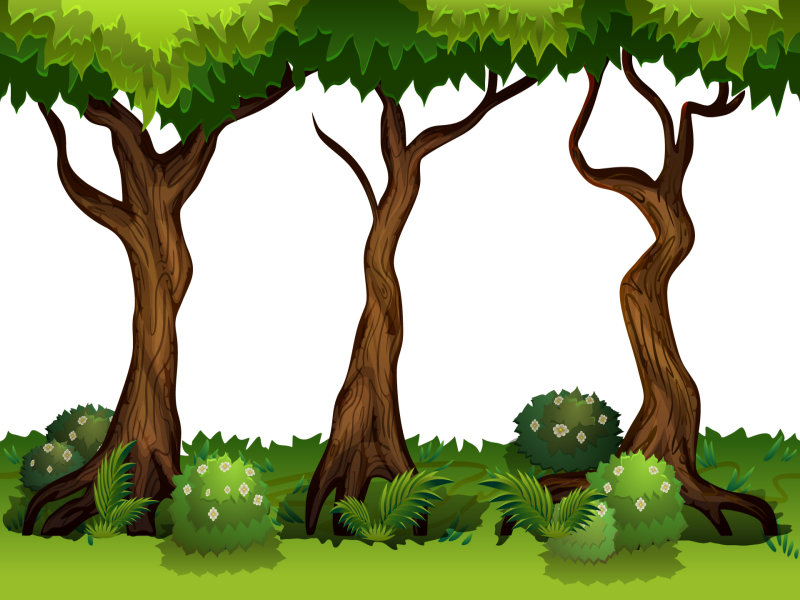
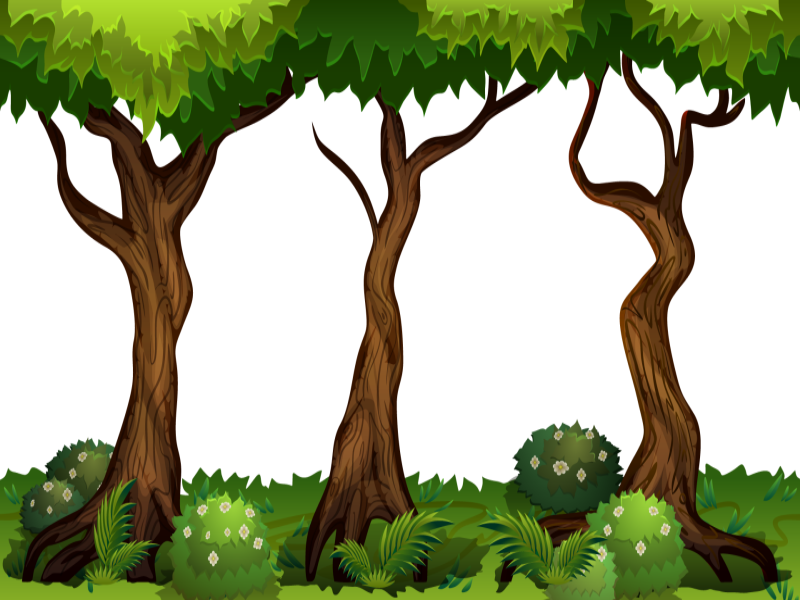
se cambia fondo, y se agrega mob animado

diff --git a/ParallaxScrolling/style.css b/ParallaxScrolling/style.css
@@ -17,7 +17,7 @@
     z-index: 2;
     transform : scale(2);
     margin-left: 150px;
-    margin-top: 390px;
+    margin-top: 400px;
     
 }
 
@@ -31,7 +31,7 @@
     z-index: 2;
     transform : scale(2);
     margin-left: 150px;
-    margin-top: 390px;
+    margin-top: 400px;
     
    
     /*
@@ -52,8 +52,23 @@
     z-index: 2;
     transform : scale(2);
     margin-left: 150px;
-    margin-top: 390px;   
+    margin-top: 400px;   
 }
+
+.mob1_run{
+    width: 128px;
+    height: 128px;
+    background: url('./img/char/mob1_run.png');
+    animation: mob1_run 2s steps(12) infinite;
+    -moz-animation: mob1_run 2s steps(12) infinite;
+    -webkit-animation: mob1_run 2s steps(12) infinite;
+    z-index: 2;
+    transform : scale(1.5);
+    margin-left: 570px;
+    margin-top: -90px;
+    
+}
+
 
 .layer{
    min-height: 500px; 
@@ -72,23 +87,29 @@
 }
 
 .layer-5{
-    background-image: url("./img/background/5.png");
-    animation-duration: 20s;    
+    background-image: url("./img/background/11.png");
+    animation-duration: 35s;    
 }
 
 .layer-4{
-    background-image: url("./img/background/4.png");
-    animation-duration: 15s;
+    background-image: url("./img/background/12.png");
+    animation-duration: 25s;
+}
+
+
+.layer-3_5{
+    background-image: url("./img/background/14.png");
+    animation-duration: 20s;
 }
 
 .layer-3{
-    background-image: url("./img/background/3.png");
-    animation-duration: 10s;
+    background-image: url("./img/background/13.png");
+    animation-duration: 15s;
 }
 
 .layer-2{
     background-image: url("./img/background/2.png");
-    animation-duration: 4s;
+    animation-duration: 6s;
 }
 
 .layer-1{
@@ -123,6 +144,10 @@
     100%{background-position: -1536px; margin-top: 390px;}       
 }
 
+@keyframes mob1_run{
+    0%{background-position: 0px;}
+    100%{background-position: -1538px;}
+}
 
 /* @-webkit-keyframes char_death{
     0%{background-position: 0px;}

diff --git a/ParallaxScrolling/index.html b/ParallaxScrolling/index.html
@@ -12,11 +12,13 @@
         <div class="fondo">
             <div class="layer layer-5"></div>
             <div class="layer layer-4"></div>
+            <div class="layer layer-3_5"></div>
             <div class="layer layer-3"></div>
             <div class="layer layer-2"></div>
             <div class="layer layer-1"></div>
         </div>    
-        <div id="char" class="char_run"></div>        
+        <div id="char" class="char_run"></div>
+        <div id="mob1" class="mob1_run"></div>
         <div id="type"></div>
     </div>
     <script type="text/javascript" src="js/main.js"></script>
